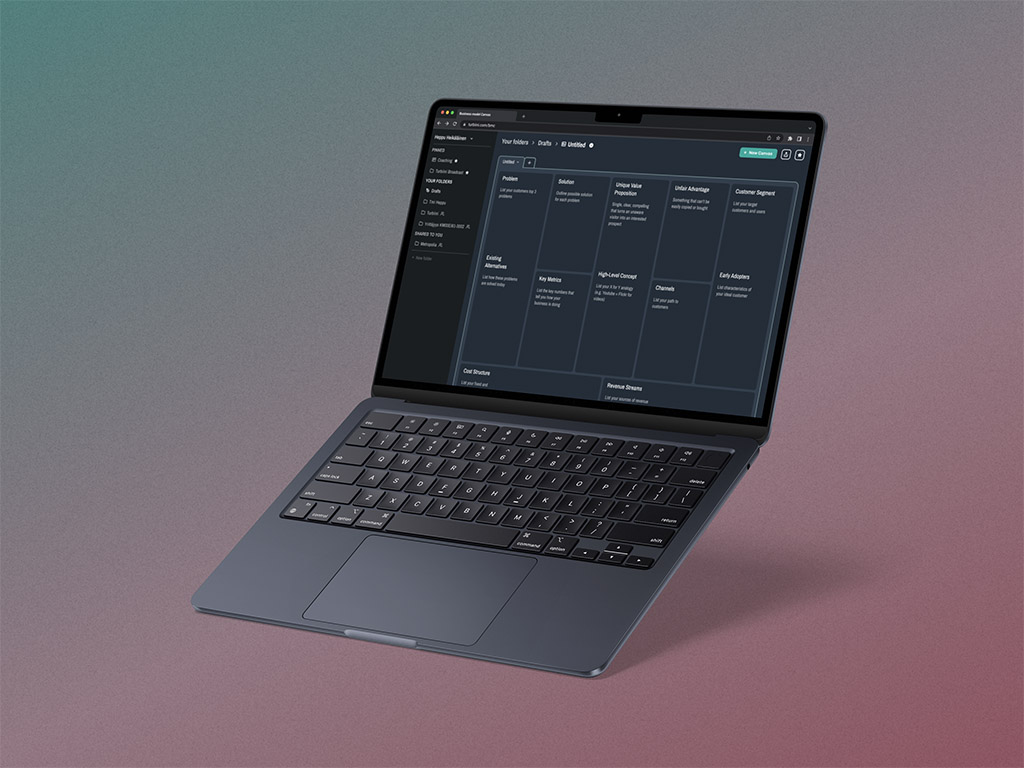
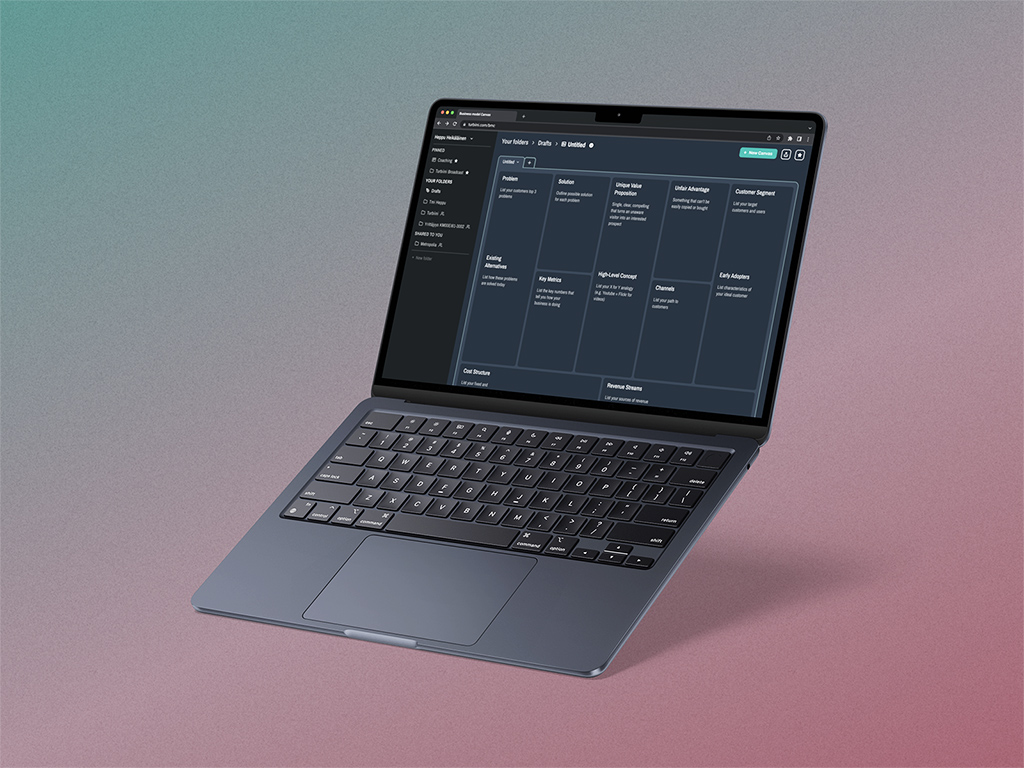
Update 13-2-2024
Larger pictures for Turbiini project

diff --git a/turbiini/index.html b/turbiini/index.html
@@ -71,7 +71,7 @@
             <div class="processimage">
               <img
                 class="imgshadow"
-                src="/turbiini/turbiini_thumbnail.jpg"
+                src="/turbiini/turbiini_thumbnail_high.jpg"
                 alt="Mockup picture of a laptop that has the designed product open."
               />
             </div>
@@ -126,7 +126,7 @@
             <div class="processimage">
               <img
                 class="imgshadow"
-                src="/turbiini/turbiini_process1.jpg"
+                src="/turbiini/turbiini_process1_high.jpg"
                 alt="Picture with sticky notes connected with arrows."
               />
             </div>
@@ -137,7 +137,7 @@
             <div class="processimage">
               <img
                 class="imgshadow"
-                src="/turbiini/turbiini_process1-1.jpg"
+                src="/turbiini/turbiini_process1-1_high.jpg"
                 alt="Picture with sticky notes connected with arrows."
               />
             </div>
@@ -244,7 +244,7 @@
             <div class="processimage">
               <img
                 class="imgshadow"
-                src="/turbiini/turbiini_process2.jpg"
+                src="/turbiini/turbiini_process2_high.jpg"
                 alt="Picture of a user interface"
               />
             </div>
@@ -256,7 +256,7 @@
             <div class="processimage">
               <img
                 class="imgshadow"
-                src="/turbiini/turbiini_process3.jpg"
+                src="/turbiini/turbiini_process3_high.jpg"
                 alt="Picture of a user interface"
               />
             </div>
@@ -363,7 +363,7 @@
             <div class="processimage">
               <img
                 class="imgshadow"
-                src="/turbiini/turbiini_process4.jpg"
+                src="/turbiini/turbiini_process4_high.jpg"
                 alt="Picture of a figma screen with different layouts connected with lines."
               />
             </div>
@@ -445,7 +445,7 @@
             <div class="processimage">
               <img
                 class="imgshadow"
-                src="/turbiini/turbiini_mockup.jpg"
+                src="/turbiini/turbiini_mockup_high.jpg"
                 alt="Mockup picture of a laptop with the designed product open."
               />
             </div>
